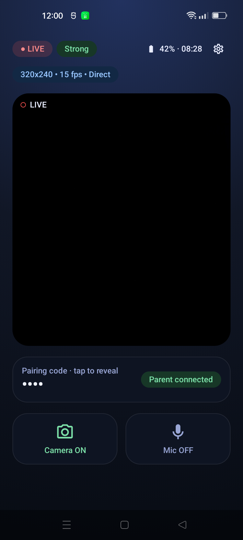
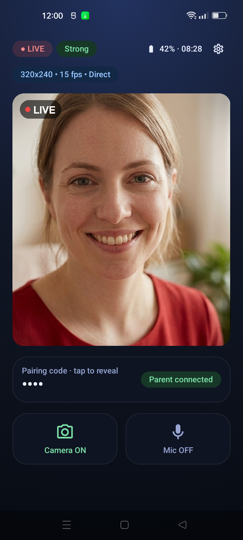
site: real baby in parent-live feed + real person in baby-camera feed; hero=parent-live; gallery has all 7 screens incl pairing

diff --git a/index.html b/index.html
@@ -318,7 +318,7 @@
     </div>
     <div class="phone-hero reveal d2">
       <div class="rings" aria-hidden="true"><span></span><span></span><span></span></div>
-      <div class="float"><img src="assets/shots/03-pairing.png" alt="BabyCam pairing screen — a 4-digit code with an Encrypted badge, camera and mic starting OFF" width="288" height="640" loading="eager"></div>
+      <div class="float"><img src="assets/shots/06-parent-live-baby.png" alt="BabyCam parent live view — watching the sleeping baby with talk, mic, torch and control buttons" width="288" height="640" loading="eager"></div>
     </div>
   </div>
 </div>
@@ -377,10 +377,11 @@
     <div class="gallery-track">
       <div class="shot reveal"><img src="assets/shots/01-welcome.png" alt="BabyCam welcome screen" width="206" height="458" loading="lazy"><span>Welcome</span></div>
       <div class="shot reveal d1"><img src="assets/shots/02-choose.png" alt="Choose device role — baby or parent" width="206" height="458" loading="lazy"><span>Choose device</span></div>
-      <div class="shot reveal d2"><img src="assets/shots/04-perms.png" alt="Baby setup permissions screen" width="206" height="458" loading="lazy"><span>Quick setup</span></div>
-      <div class="shot reveal d3"><img src="assets/shots/05-baby-active.png" alt="Baby phone monitoring active" width="206" height="458" loading="lazy"><span>Baby — active</span></div>
-      <div class="shot reveal d4"><img src="assets/shots/06-parent-live.png" alt="Parent live view with talk, mic, torch and control buttons" width="206" height="458" loading="lazy"><span>Parent — live</span></div>
-      <div class="shot reveal d4"><img src="assets/shots/07-parent-home.png" alt="Parent home — your baby phones list" width="206" height="458" loading="lazy"><span>Baby list</span></div>
+      <div class="shot reveal d2"><img src="assets/shots/03-pairing.png" alt="Baby pairing code — a 4-digit code, encrypted" width="206" height="458" loading="lazy"><span>Pairing code</span></div>
+      <div class="shot reveal d3"><img src="assets/shots/04-perms.png" alt="Baby setup permissions screen" width="206" height="458" loading="lazy"><span>Quick setup</span></div>
+      <div class="shot reveal d4"><img src="assets/shots/05-baby-active.png" alt="Baby phone monitoring active" width="206" height="458" loading="lazy"><span>Baby — active</span></div>
+      <div class="shot reveal d5"><img src="assets/shots/06-parent-live-baby.png" alt="Parent live view watching the sleeping baby, with talk, mic and control buttons" width="206" height="458" loading="lazy"><span>Parent — live</span></div>
+      <div class="shot reveal d6"><img src="assets/shots/07-parent-home.png" alt="Parent home — your baby phones list" width="206" height="458" loading="lazy"><span>Baby list</span></div>
     </div>
   </div>
 </section>